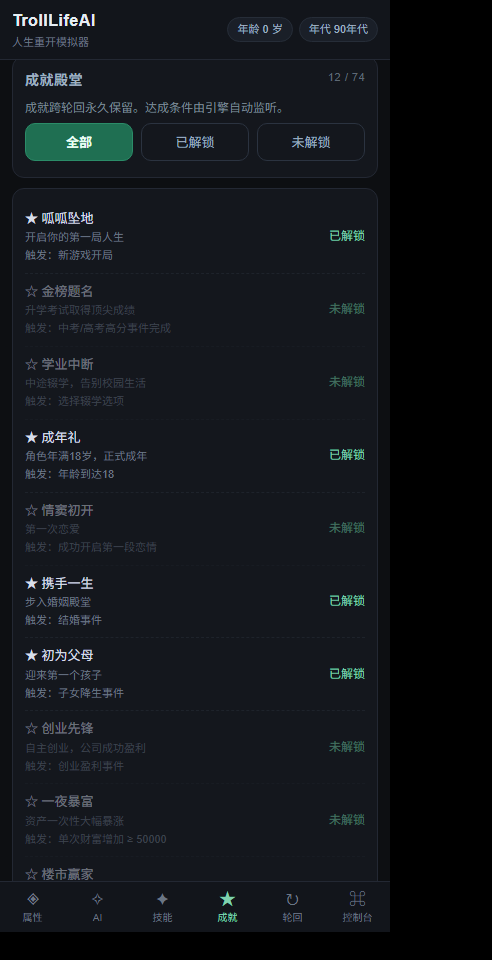
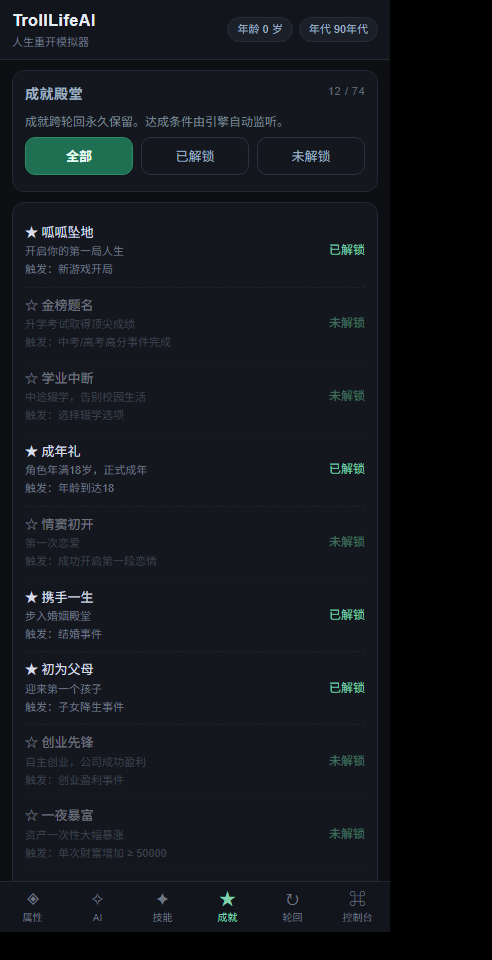
修复每页顶部文字被顶栏遮挡 + 移除常驻诊断按钮
问题（真机反馈）：
- 内容区只留了固定 56px 顶部内边距，但带刘海机型顶栏实际是 44pt + 安全区(~47px) ≈ 91px，
  于是每个页面的首行文字都钻到顶栏下面被盖住
- 右上角常驻的「诊断」按钮遮挡页面内容

修复：
- #screen 顶部/底部留白改为 calc(60px + env(safe-area-inset-top)) / calc(84px + env(...))
- 新增 syncLayout()：用实测的顶栏/底部导航 offsetHeight 精确设置内容区 padding，
  render()、启动、resize、orientationchange 时都会重新测量
- 移除壳里常驻的「诊断」按钮；诊断入口改为【摇一摇】手机（不可见，不遮挡内容），
  另外连续启动失败仍会自动进入安全模式并展示诊断页
- AI 配置写入时也做范围归一化（修 0/1500 这类显示与生效不一致）
- selfcheck 新增 3 条：内容区留白含安全区、syncLayout 存在、无常驻诊断按钮（现 74/74 通过）
- 新增带假刘海(48px)的渲染回归场景：顶栏 108px 时内容区留白 118px，首行完整可见

diff --git a/tools/selfcheck.js b/tools/selfcheck.js
@@ -70,6 +70,13 @@ check('html,body touch-action:manipulation', /touch-action:manipulation/.test(st
 check('输入框字号 16px（防 iOS 自动放大）', /input[^{]*\{[^}]*font-size:16px/.test(styleBlock));
 check('弹窗长列表：头部/内容/按钮三段式', /modalHead/.test(styleBlock) && /modalBody[^{]*\{[^}]*overflow-y:auto/.test(styleBlock) && /modalFoot/.test(styleBlock));
 
+/* 内容区留白：必须把刘海安全区与顶栏高度算进去，否则每页首行会被顶栏盖住 */
+check('内容区顶部留白含安全区（calc + env）',
+  /#screen\{[^}]*padding:calc\([^)]*env\(safe-area-inset-top\)\)/.test(styleBlock.replace(/\n/g, '')));
+check('JS 用实测高度修正内容区留白（syncLayout）',
+  /function syncLayout/.test(inlineJs) && /screen\.style\.paddingTop/.test(inlineJs) &&
+  /offsetHeight/.test(inlineJs) && /syncLayout\(\)/.test(inlineJs));
+
 /* 4. 老语法 JS（先剥掉字符串与正则字面量，避免把 /```json/ 误判成模板字符串） */
 const jsBare = inlineJs
   .replace(/'(?:[^'\\\n]|\\.)*'/g, "''")
@@ -90,8 +97,8 @@ check('未使用 let / const（老语法）', !letConst);
 
 /* 5. 无动态 DOM 事件绑定 */
 check('无 el.onclick = 动态绑定', !/\.onclick\s*=/.test(inlineJs));
-check('无 addEventListener 绑业务按钮（仅 DOMContentLoaded）',
-  (inlineJs.match(/addEventListener/g) || []).length <= 2);
+check('addEventListener 仅用于 DOMContentLoaded 与布局监听',
+  (inlineJs.match(/addEventListener/g) || []).length <= 5);
 
 /* 6. 无外部依赖 */
 check('无外部 script src', !/<script[^>]+src=/i.test(app));
@@ -235,6 +242,9 @@ check('index.html 候选路径逐条判空后再加入数组',
 check('分级测试阶梯（① 建 WebView ② 最小页 ③ 正式页）',
   /runTestLevel/.test(vc) && /分级测试第 %ld 级/.test(vc) && /finishTestSuccess/.test(vc) &&
   /showTestLadder = YES/.test(vc));
+check('界面上无常驻诊断按钮（改为摇一摇触发）',
+  !/installDiagButton/.test(vc) && !/@\"诊断\" forState/.test(vc) &&
+  /motionEnded/.test(vc) && /UIEventSubtypeMotionShake/.test(vc));
 
 /* 11. 工作流避坑点 */
 const wf = fs.readFileSync(path.join(ROOT, '.github/workflows/build-ipa.yml'), 'utf8');

diff --git a/tools/make-narrow-shots.js b/tools/make-narrow-shots.js
@@ -1,4 +1,4 @@
-/**
+/**
  * make-narrow-shots.js —— 在 390px 宽的 iframe 里真实渲染 app.html
  * 用途：① 报告真实 iPhone 宽度下有没有横向溢出；② 截图真机尺寸下的各个界面。
  * 用法： node tools/make-narrow-shots.js   然后 powershell -File tools/shot.ps1
@@ -60,8 +60,21 @@ const SCENES = {
     TL.addPet('猫');
     for (var i = 0; i < 5; i++) { TL.addLog('第 ' + (22 + i) + ' 年：示例人生记录'); }
     window.ui.go('home');`,
-  narrow_relations: `
+  /* 模拟带刘海机型：给顶栏注入 48px 安全区，验证内容区留白会跟着变高（不再被顶栏盖住） */
+  narrow_notch: `
+    var st = d.createElement('style');
+    st.textContent = '#topbar{padding-top:48px}';
+    d.head.appendChild(st);
     TL.resetAll();
+    window.ui.tab = 'start'; window.ui.setEra('00'); window.ui.setCity('一线城市');
+    window.ui.drawTalents(); window.ui.pickTalent(0); window.ui.beginLife();
+    window.ui.go('ai');
+    window.ui.syncLayout();
+    var tb = d.getElementById('topbar'), sc = d.getElementById('screen');
+    window.__notchReport = 'TOPBAR=' + Math.round(tb.getBoundingClientRect().height) +
+      ' PADTOP=' + sc.style.paddingTop + ' PADBOTTOM=' + sc.style.paddingBottom;`,
+
+  narrow_relations: `
     window.ui.tab = 'start'; window.ui.setEra('90'); window.ui.setCity('一线城市');
     window.ui.drawTalents(); window.ui.pickTalent(0); window.ui.beginLife();
     TL.S.age = 32;
@@ -144,7 +157,8 @@ function tryRun() {
           out.push(all[i].tagName + '.' + String(all[i].className || '-').slice(0, 22) + '[right=' + Math.round(r.right) + ']');
         }
       }
-      outerDoc.body.setAttribute('data-narrow', 'COUNT=' + out.length + ' :: ' + out.slice(0, 12).join(' || '));
+      outerDoc.body.setAttribute('data-narrow', 'COUNT=' + out.length + ' :: ' + out.slice(0, 12).join(' || ') +
+        ' :: ' + (w.__notchReport || 'no-layout-report'));
     } catch (e2) { outerDoc.body.setAttribute('data-narrow', 'ERR2 ' + e2.message); }
   }, 300);
 }

diff --git a/src/js/05_ui.js b/src/js/05_ui.js
@@ -99,7 +99,24 @@
   function navVisible(v) {
     $('nav').className = v ? 'safe-bottom' : 'hide';
     $('screen').className = v ? '' : 'noNav';
+    syncLayout();
   }
+
+  /* 用实测高度修正内容区上下留白：
+     顶栏高度 = 刘海安全区 + 44pt；底部导航高度同理。
+     不做这一步，iPhone 上每页第一行文字会被顶栏盖住。 */
+  function syncLayout() {
+    try {
+      var topbar = $('topbar'), nav = $('nav'), screen = $('screen');
+      if (!topbar || !screen) { return; }
+      var topH = topbar.offsetHeight || 44;
+      var navH = 0;
+      if (nav && nav.className.indexOf('hide') === -1) { navH = nav.offsetHeight || 48; }
+      screen.style.paddingTop = (topH + 10) + 'px';
+      screen.style.paddingBottom = navH > 0 ? (navH + 12) + 'px' : '16px';
+    } catch (e) { }
+  }
+  ui.syncLayout = syncLayout;
   function setTop(age, era) {
     $('chipAge').innerHTML = age === null ? '年龄 --' : ('年龄 ' + age + ' 岁');
     $('chipEra').innerHTML = era ? ('年代 ' + TL.ERA_NAME[era]) : '年代 --';
@@ -107,6 +124,7 @@
 
   function render() {
     var S = TL.S;
+    syncLayout();
     if (ui.tab !== 'start' && (!S || !S.alive)) {
       if (S && !S.alive && ui.tab !== 're') { ui.tab = 're'; }
     }
@@ -1119,6 +1137,10 @@
         ui.tab = 'start';
       }
       render();
+      syncLayout();
+      /* 旋转 / 窗口变化后重新测量（竖屏为主，但桌面浏览器拖窗口也要正确） */
+      window.addEventListener('resize', function () { syncLayout(); });
+      window.addEventListener('orientationchange', function () { setTimeout(syncLayout, 300); });
       if (saved && !saved.alive) { showDeath(); }
     } catch (e) {
       ui.tab = 'start';

diff --git a/src/head.html b/src/head.html
@@ -21,7 +21,7 @@ input,select,textarea,button{font-family:inherit;font-size:16px}
 
 /* ===== 顶部标题栏 ===== */
 #topbar{position:fixed;top:0;left:0;right:0;z-index:20;background:#12151b;
-  border-bottom:1px solid #232833}
+  border-bottom:1px solid #232833;box-sizing:border-box}
 #topbarInner{display:flex;align-items:center;justify-content:space-between;padding:8px 12px;min-height:44px}
 #appTitle{font-size:16px;font-weight:600;letter-spacing:.5px;color:#e6edf3}
 #appTitle small{display:block;font-size:11px;color:#6b7684;font-weight:400;letter-spacing:0}
@@ -30,9 +30,13 @@ input,select,textarea,button{font-family:inherit;font-size:16px}
   border-radius:999px;padding:3px 9px;white-space:nowrap}
 
 /* ===== 内容区 ===== */
+/* 顶部/底部内边距必须把「顶栏实际高度（含刘海安全区）」和「底部导航高度」算进去，
+   否则内容会钻到顶栏下面被盖住。CSS 先给一个含 env() 的保守值，
+   页面加载后再由 JS 用实测高度精确覆盖（见 syncLayout）。*/
 #screen{position:fixed;top:0;left:0;right:0;bottom:0;overflow-y:auto;-webkit-overflow-scrolling:touch;
-  padding:56px 12px 78px 12px}
-#screen.noNav{padding-bottom:24px}
+  padding:calc(60px + env(safe-area-inset-top)) 12px calc(84px + env(safe-area-inset-bottom)) 12px;
+  box-sizing:border-box}
+#screen.noNav{padding-bottom:calc(16px + env(safe-area-inset-bottom))}
 .section{margin:0 0 12px 0}
 .card{background:#14171d;border:1px solid #232833;border-radius:12px;padding:12px;margin-bottom:10px}
 .card h3{margin:0 0 8px 0;font-size:14px;color:#9fb0c0;font-weight:600;letter-spacing:.5px}

diff --git a/src/js/03_ai.js b/src/js/03_ai.js
@@ -57,6 +57,11 @@
     for (var k in patch) {
       if (Object.prototype.hasOwnProperty.call(patch, k)) { c[k] = patch[k]; }
     }
+    /* 写入时也做一次范围归一化，避免界面显示值与实际生效值不一致 */
+    c.chance = TL.clamp(Number(c.chance) || 0, 0, 1);
+    c.maxPerLife = TL.clamp(parseInt(c.maxPerLife, 10) || 30, 0, 500);
+    c.timeout = TL.clamp(parseInt(c.timeout, 10) || 45000, 3000, 120000);
+    c.startAge = TL.clamp(parseInt(c.startAge, 10) || 0, 0, 100);
     TL.ai.config = c;
     try { localStorage.setItem(TL.AI_KEY, JSON.stringify(c)); } catch (e) { }
     return c;

diff --git a/ios-shell/TrollLifeApp/ViewController.m b/ios-shell/TrollLifeApp/ViewController.m
@@ -17,7 +17,6 @@
 
 @interface ViewController ()
 @property (nonatomic, assign) BOOL didLoadPage;
-@property (nonatomic, strong) UIButton *diagButton;
 @property (nonatomic, weak) TLDiagnosticViewController *diagVC;
 @property (nonatomic, assign) NSInteger testLevel;   /* 0=正常启动 1/2/3=分级测试 */
 @property (nonatomic, assign) BOOL webViewCreatedInTest;
@@ -47,11 +46,6 @@
         TLMarkStage(@"WKWebView 创建异常，转入诊断页");
         [self installDiagnosticScreenAsRoot];
     }
-}
-
-- (void)viewDidAppear:(BOOL)animated {
-    [super viewDidAppear:animated];
-    TLMarkStage(@"ViewController 已显示");
 }
 
 - (void)dealloc {
@@ -119,36 +113,30 @@
     [self.view insertSubview:self.webView atIndex:0];
     TLMarkStage([NSString stringWithFormat:@"%@：WKWebView 已加入视图层级", tag]);
 
-    [self installDiagButton];
     return YES;
 }
 
-/* 右上角常驻「诊断」小按钮：页面白屏/异常时也能随时看到日志 */
-- (void)installDiagButton {
-    @try {
-        if (self.diagButton) { [self.diagButton removeFromSuperview]; self.diagButton = nil; }
-        self.diagButton = [UIButton buttonWithType:UIButtonTypeSystem];
-        [self.diagButton setTitle:@"诊断" forState:UIControlStateNormal];
-        self.diagButton.titleLabel.font = [UIFont systemFontOfSize:11];
-        [self.diagButton setTitleColor:[UIColor colorWithWhite:0.75 alpha:0.9] forState:UIControlStateNormal];
-        self.diagButton.backgroundColor = [UIColor colorWithWhite:0.1 alpha:0.55];
-        self.diagButton.layer.cornerRadius = 10;
-        self.diagButton.translatesAutoresizingMaskIntoConstraints = NO;
-        [self.diagButton addTarget:self action:@selector(showDiagnostics) forControlEvents:UIControlEventTouchUpInside];
-        [self.view addSubview:self.diagButton];
+/* 诊断入口做成「不可见」的：摇一摇手机打开诊断页。
+   不在界面上常驻任何按钮，避免遮挡页面内容。 */
+- (BOOL)canBecomeFirstResponder { return YES; }
 
-        UILayoutGuide *safe = self.view.safeAreaLayoutGuide;
-        [NSLayoutConstraint activateConstraints:@[
-            [self.diagButton.widthAnchor constraintEqualToConstant:46],
-            [self.diagButton.heightAnchor constraintEqualToConstant:22],
-            [self.diagButton.trailingAnchor constraintEqualToAnchor:safe.trailingAnchor constant:-6],
-            [self.diagButton.topAnchor constraintEqualToAnchor:safe.topAnchor constant:2]
-        ]];
-    } @catch (NSException *e) {
-        TLLog(@"‼ 创建诊断按钮失败（不致命）: %@", e.reason);
-    }
+- (void)viewDidAppear:(BOOL)animated {
+    [super viewDidAppear:animated];
+    TLMarkStage(@"ViewController 已显示");
+    [self becomeFirstResponder];
 }
 
+- (void)motionEnded:(UIEventSubtype)motion withEvent:(UIEvent *)event {
+    if (motion == UIEventSubtypeMotionShake) {
+        TLMarkStage(@"摇一摇：打开诊断页");
+        [self showDiagnostics];
+        return;
+    }
+    [super motionEnded:motion withEvent:event];
+}
+
+/* 诊断入口：只保留「摇一摇」，界面上不再常驻任何按钮（避免遮挡页面内容）。
+   另外连续启动失败会自动进入安全模式，那时也会直接显示诊断页。 */
 - (void)showDiagnostics {
     @try {
         TLDiagnosticViewController *vc = [TLDiagnosticViewController make];
@@ -256,7 +244,6 @@
         }
         self.testLevel = 0;
         [self.view bringSubviewToFront:self.webView];
-        [self.view bringSubviewToFront:self.diagButton];
     } @catch (NSException *e) {
         TLLog(@"退出诊断界面失败: %@", e.reason);
     }
